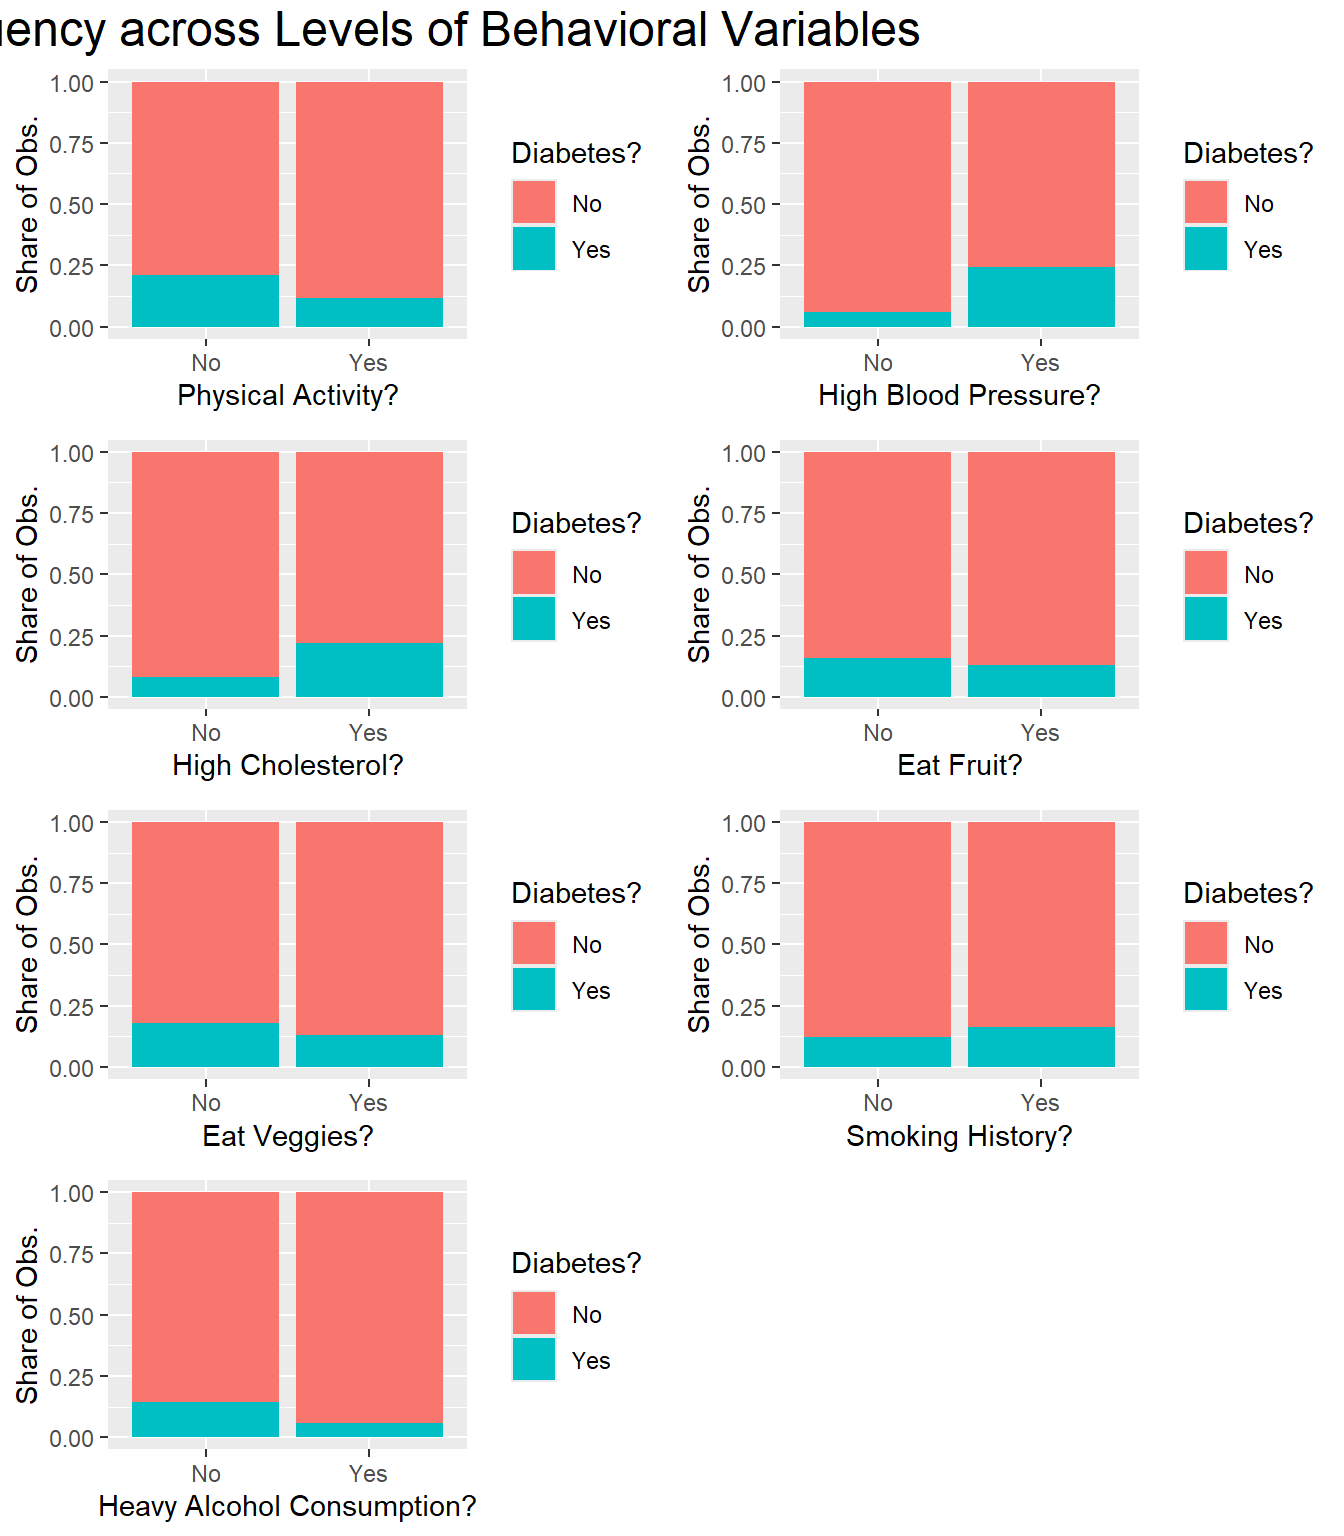
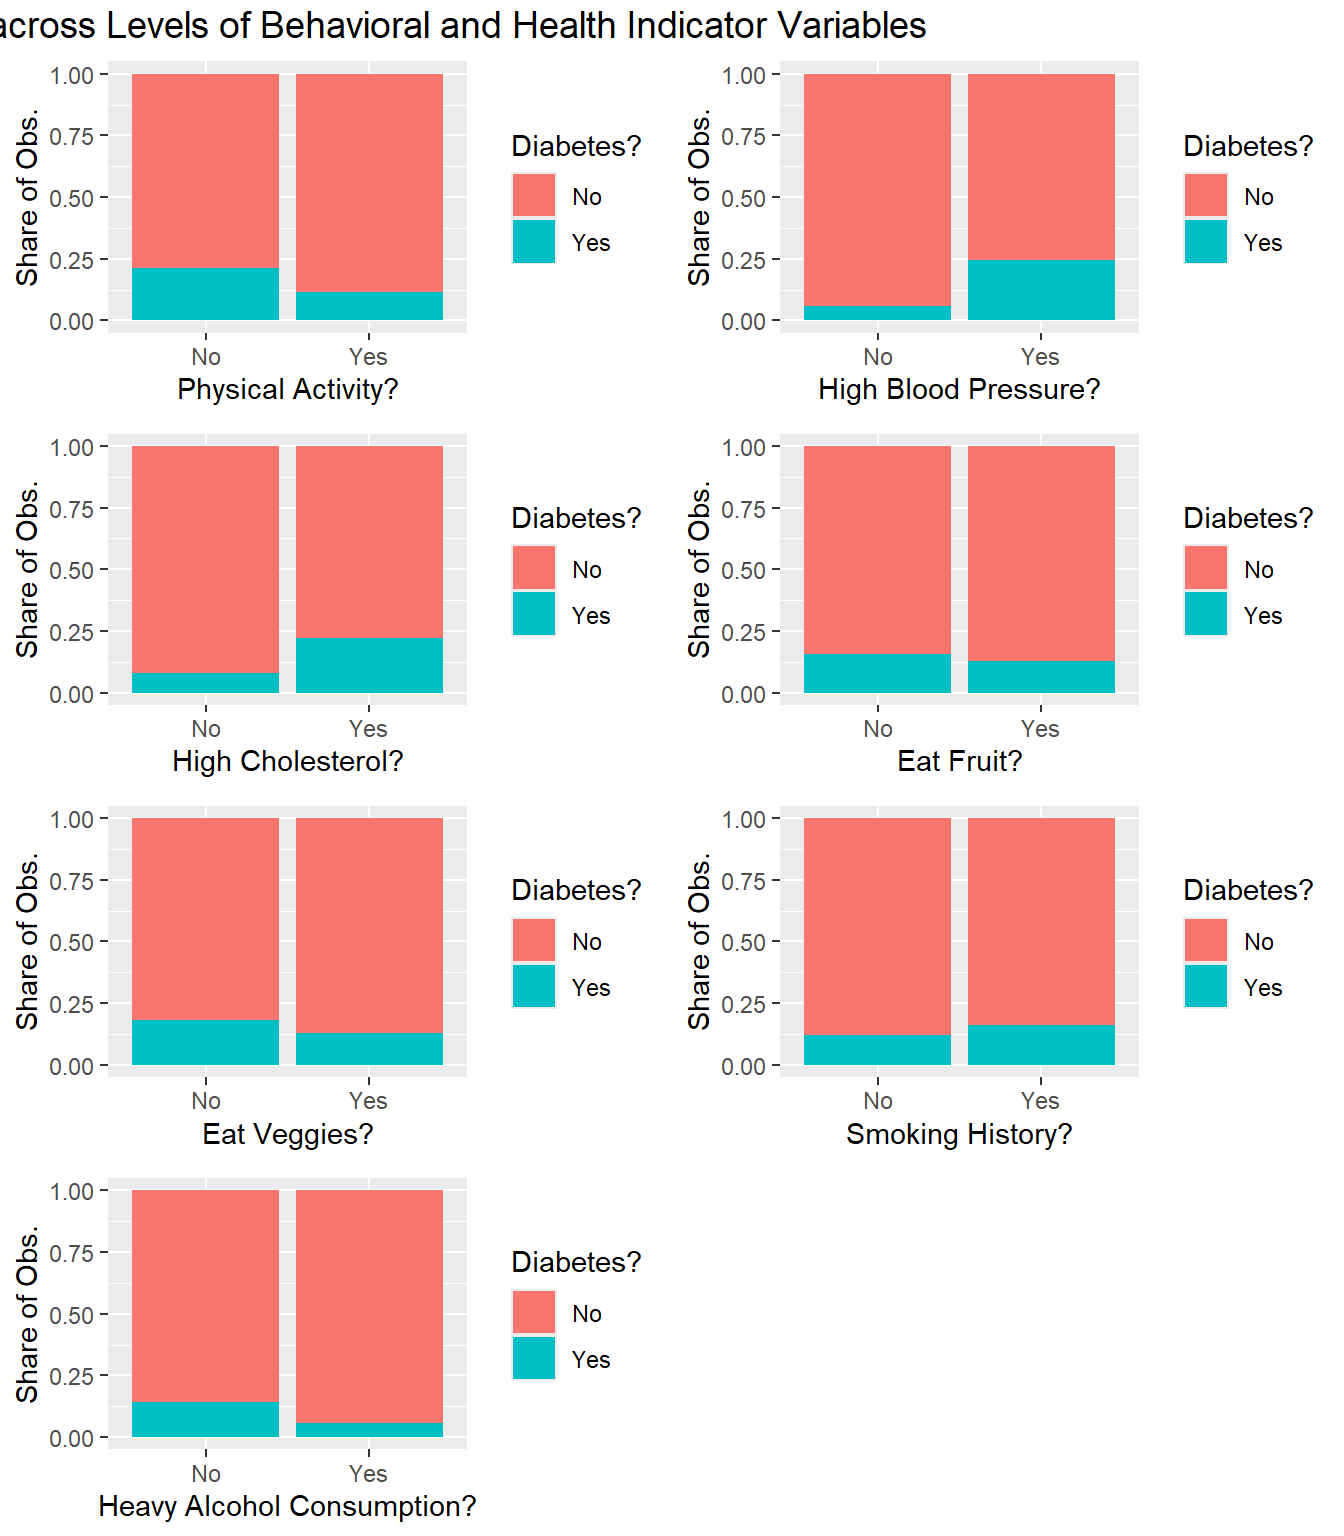
Small clean up

diff --git a/docs/Modeling.html b/docs/Modeling.html
@@ -8,7 +8,7 @@
 
 <meta name="author" content="Cass Crews">
 
-<title>A Predictive Model for Diabetes</title>
+<title>Predicting Diabetes</title>
 <style>
 code{white-space: pre-wrap;}
 span.smallcaps{font-variant: small-caps;}
@@ -121,7 +121,8 @@ pre > code.sourceCode > span > a:first-child::before { text-decoration: underlin
 
 <header id="title-block-header" class="quarto-title-block default">
 <div class="quarto-title">
-<h1 class="title">A Predictive Model for Diabetes</h1>
+<h1 class="title">Predicting Diabetes</h1>
+<p class="subtitle lead">Model Building</p>
 </div>
 
 
@@ -148,7 +149,20 @@ pre > code.sourceCode > span > a:first-child::before { text-decoration: underlin
 <h1>Introduction</h1>
 <p>Diabetes is a challenging disease for those who suffer from it, and it is also difficult to diagnose. However, predictive machine learning models may be able to effectively predict when someone has diabetes or is at least at greater risk. The goal of this project is to use easily collected characteristics on individuals to tune a predictive model of diabetes incidence.</p>
 <p>To develop this model, we will utilize the 2015 survey responses from the Behavioral Risk Factor Surveillance System (BRFSS), an annual telephone-based survey attempting to characterize the state of American health. While over 400,000 individuals were surveyed via telephone, we analyze a cleaned version of the dataset that contains 253,680 responses. This dataset is made available by Alex Teboul via <a href="https://www.kaggle.com/datasets/alexteboul/diabetes-health-indicators-dataset?select=diabetes_binary_health_indicators_BRFSS2015.csv">Kaggle</a>.</p>
-<p>Our analysis will focus on the following variables, with cleaned and original variable names indicated: - <code>diabetes_binary</code>: Our response variable, a binary indicator for diabetes (original name: <code>Diabetes_binary</code>) - <code>high_bp</code>: A binary indicator for high blood pressure (original name: <code>HighBP</code>) - <code>high_chol</code>: A binary indicator for high cholesterol (original name: <code>HighChol</code>) - <code>phys_activity</code>: A binary indicator for whether the individual has exercised outside of work in the past 30 days (original name: <code>PhysActivity</code>) - <code>fruits</code>: A binary indicator for whether the individual consumes fruit at least once per day (original name: <code>Fruits</code>) - <code>veggies</code>: A binary indicator for whether the individual consumes vegetables at least once per day (original name: <code>Veggies</code>) - <code>smoker</code>: A binary indicator for whether the individual has smoked at least 100 cigarettes in their lifetime (original name: <code>Smoker</code>) - <code>hvy_alc_consump</code>: A binary indicator for whether the individual is considered a heavy drinker – 14 or more drinks per week for men and seven or more drinks per week for women (original name: <code>HvyAlcoholConsump</code>) - <code>sex</code>: A binary sex indicator – 0 for female and 1 for male (original name: <code>Sex</code>) - <code>age</code>: An age group indicator with 13 levels ranging from 18-24 to 80+ (original name: <code>Age</code>) - <code>income</code>: A household income income bracket indicator with 8 levels ranging from below $10,000 per year to over $75,000 per year (original name: <code>Income</code>)</p>
+<p>Our analysis will focus on the following variables, with cleaned and original variable names indicated:</p>
+<ul>
+<li><code>diabetes_binary</code>: Our response variable, a binary indicator for diabetes (original name: <code>Diabetes_binary</code>)</li>
+<li><code>high_bp</code>: A binary indicator for high blood pressure (original name: <code>HighBP</code>)</li>
+<li><code>high_chol</code>: A binary indicator for high cholesterol (original name: <code>HighChol</code>)</li>
+<li><code>phys_activity</code>: A binary indicator for whether the individual has exercised outside of work in the past 30 days (original name: <code>PhysActivity</code>)</li>
+<li><code>fruits</code>: A binary indicator for whether the individual consumes fruit at least once per day (original name: <code>Fruits</code>)</li>
+<li><code>veggies</code>: A binary indicator for whether the individual consumes vegetables at least once per day (original name: <code>Veggies</code>)</li>
+<li><code>smoker</code>: A binary indicator for whether the individual has smoked at least 100 cigarettes in their lifetime (original name: <code>Smoker</code>)</li>
+<li><code>hvy_alc_consump</code>: A binary indicator for whether the individual is considered a heavy drinker – 14 or more drinks per week for men and seven or more drinks per week for women (original name: <code>HvyAlcoholConsump</code>)</li>
+<li><code>sex</code>: A binary sex indicator – 0 for female and 1 for male (original name: <code>Sex</code>)</li>
+<li><code>age</code>: An age group indicator with 13 levels ranging from 18-24 to 80+ (original name: <code>Age</code>)</li>
+<li><code>income</code>: A household income income bracket indicator with 8 levels ranging from below $10,000 per year to over $75,000 per year (original name: <code>Income</code>)</li>
+</ul>
 <p>This page documents our efforts to tune two model classes in producing a final predictive model of diabetes incidence. Those two model classes are the classification tree and the random forest, which will each be described in detail below. To tune the models and select a final model, we take the following approach: 1. Split the data into a training set containing 70% of the data and a test set containing 30% of the data. 2. Tune each model class using the training set via 5-fold cross-validation, using log loss to select the best model from each class. 3. Fit each “best” model to the full training set and predict for the full test set, selecting the final model with the best log loss. 4. Fit the overall best model to the full dataset so that it can be put into production.</p>
 </section>
 <section id="loading-packages-and-processing-the-data" class="level1">

diff --git a/docs/EDA.html b/docs/EDA.html
@@ -8,7 +8,7 @@
 
 <meta name="author" content="Cass Crews">
 
-<title>Exploratory Data Analysis</title>
+<title>Predicting Diabetes</title>
 <style>
 code{white-space: pre-wrap;}
 span.smallcaps{font-variant: small-caps;}
@@ -117,7 +117,8 @@ pre > code.sourceCode > span > a:first-child::before { text-decoration: underlin
 
 <header id="title-block-header" class="quarto-title-block default">
 <div class="quarto-title">
-<h1 class="title">Exploratory Data Analysis</h1>
+<h1 class="title">Predicting Diabetes</h1>
+<p class="subtitle lead">Exploratory Data Analysis</p>
 </div>
 
 
@@ -526,8 +527,8 @@ $Income
 <span id="cb35-35"><a href="#cb35-35" aria-hidden="true" tabindex="-1"></a></span>
 <span id="cb35-36"><a href="#cb35-36" aria-hidden="true" tabindex="-1"></a><span class="co">#Combining the seven plots in a single visualations</span></span>
 <span id="cb35-37"><a href="#cb35-37" aria-hidden="true" tabindex="-1"></a><span class="fu">grid.arrange</span>(g1, g2, g3, g4, g5, g6, g7, <span class="at">ncol =</span> <span class="dv">2</span>, </span>
-<span id="cb35-38"><a href="#cb35-38" aria-hidden="true" tabindex="-1"></a>             <span class="at">top =</span> <span class="fu">textGrob</span>(<span class="st">"Diabetes Frequency across Levels of Behavioral Variables"</span>, </span>
-<span id="cb35-39"><a href="#cb35-39" aria-hidden="true" tabindex="-1"></a>                            <span class="at">hjust =</span> <span class="fl">0.8</span>, <span class="at">gp =</span> <span class="fu">gpar</span>(<span class="at">fontsize =</span> <span class="dv">18</span>)))</span></code><button title="Copy to Clipboard" class="code-copy-button"><i class="bi"></i></button></pre></div>
+<span id="cb35-38"><a href="#cb35-38" aria-hidden="true" tabindex="-1"></a>             <span class="at">top =</span> <span class="fu">textGrob</span>(<span class="st">"Diabetes Frequency across Levels of Behavioral and Health Indicator Variables"</span>, </span>
+<span id="cb35-39"><a href="#cb35-39" aria-hidden="true" tabindex="-1"></a>                            <span class="at">hjust =</span> <span class="fl">0.8</span>, <span class="at">gp =</span> <span class="fu">gpar</span>(<span class="at">fontsize =</span> <span class="dv">14</span>)))</span></code><button title="Copy to Clipboard" class="code-copy-button"><i class="bi"></i></button></pre></div>
 <div class="cell-output-display">
 <div>
 <figure class="figure">
